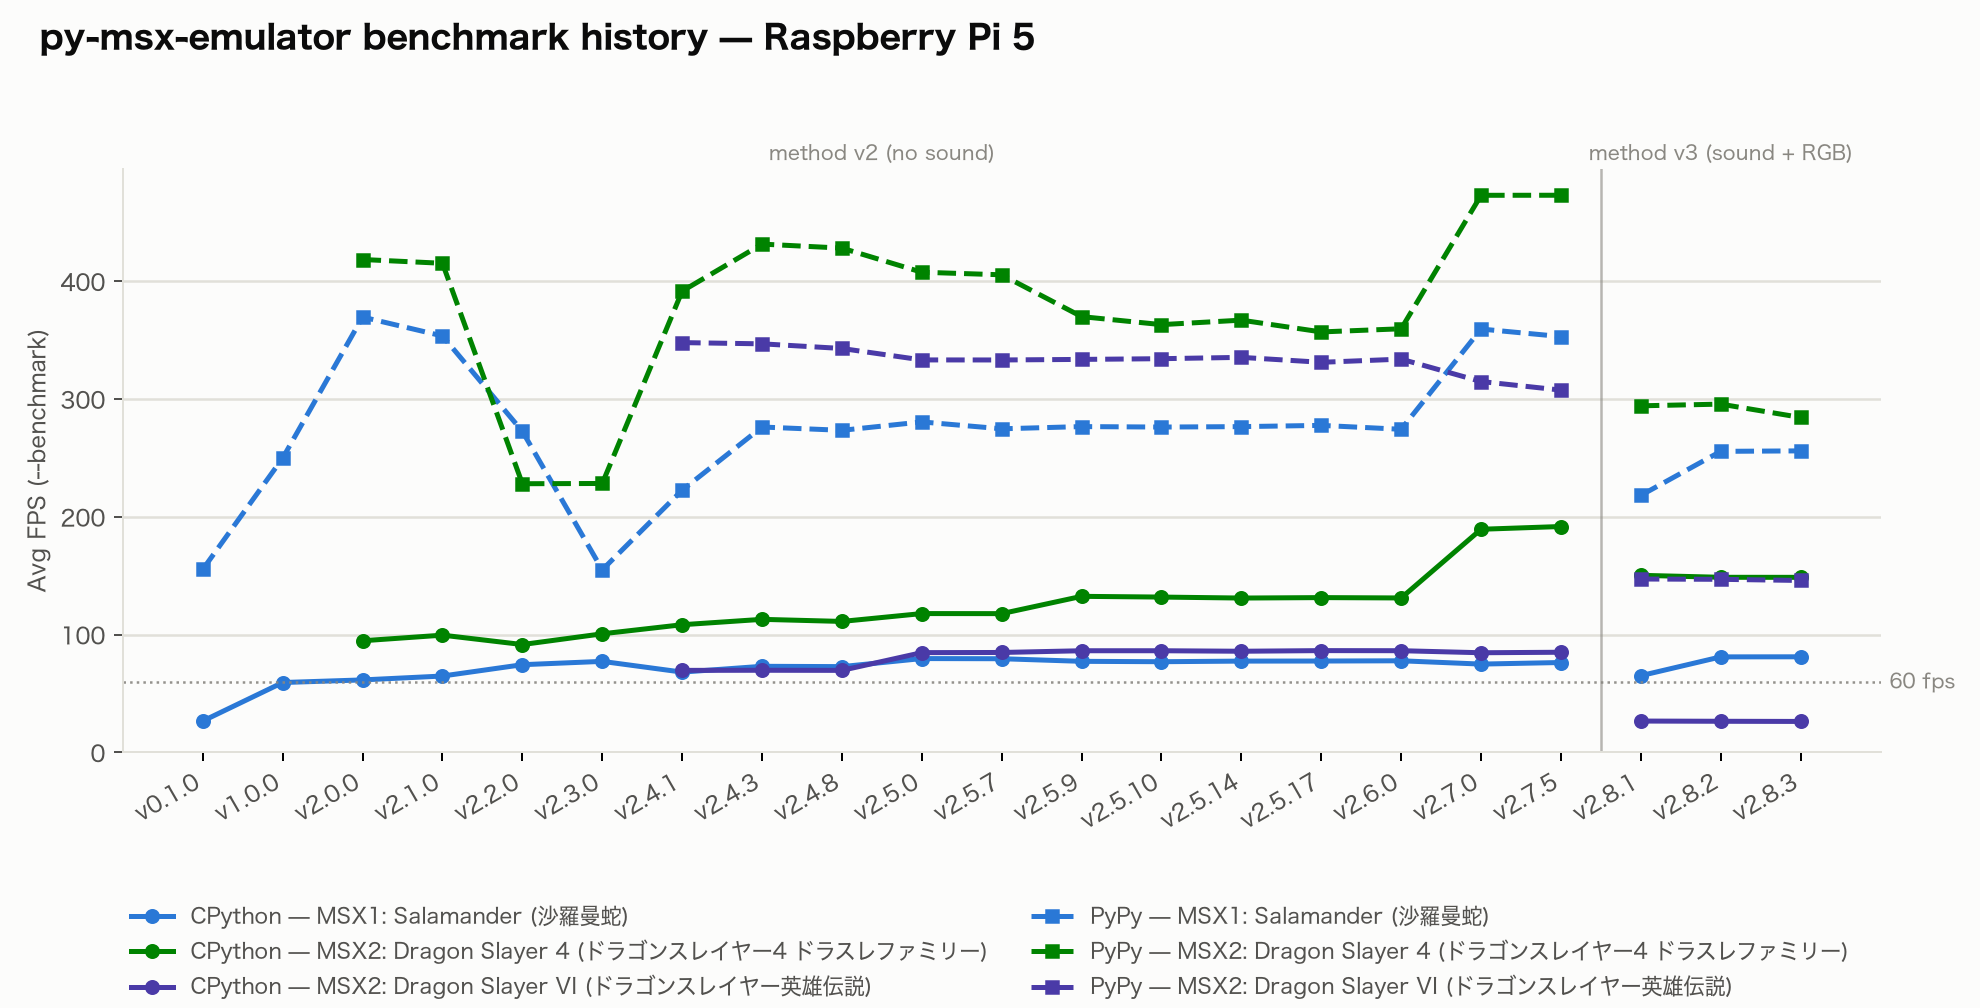
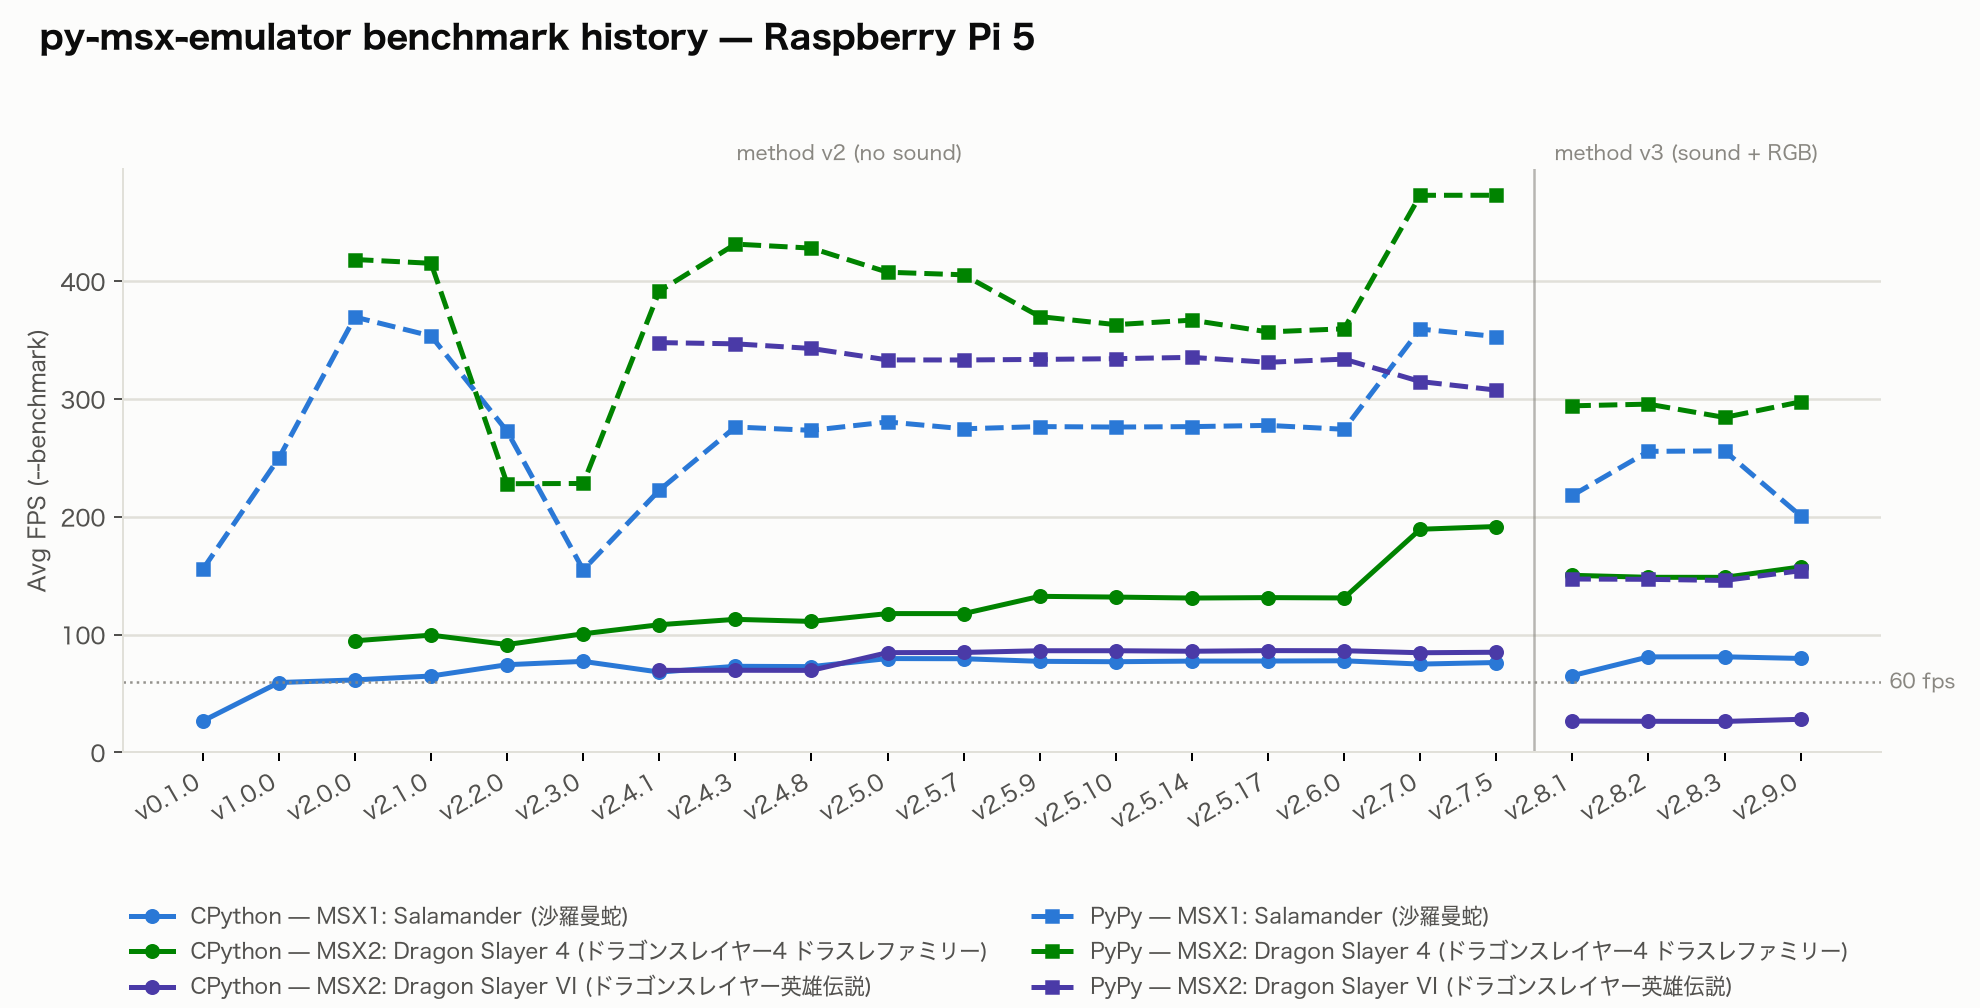
docs(readme): update the benchmarks for v2.9.0
New measurements on both hosts, the charts through v2.9.0, and the numbers in
the text after the table. PyPy runs the MSX1 title about 20% slower than in
v2.8.3. The cause is the shared clock record of add-core-clock, and the
project accepts that loss.

diff --git a/README.md b/README.md
@@ -655,25 +655,25 @@ the fastest and the slowest run.
 
 | Platform | Runtime | Game | Avg FPS (`--benchmark`) | vs. 60 fps target |
 | --- | --- | --- | --- | --- |
-| Apple MacBook Pro (M5 Pro) | CPython 3.12.13 | MSX1: Salamander (CPU+TMS9918+SCC) | 316.31 | ~5.3× |
-| Apple MacBook Pro (M5 Pro) | CPython 3.12.13 | MSX2: Dragon Slayer IV (CPU+V9938+PSG) | 554.05 | ~9.2× |
-| Apple MacBook Pro (M5 Pro) | CPython 3.12.13 | MSX2: Dragon Slayer VI - The Legend of Heroes (CPU+V9938+FDC+FMPAC) | 96.91 | ~1.6× |
-| Apple MacBook Pro (M5 Pro) | PyPy 7.3.19 (Python 3.10.16) | MSX1: Salamander (CPU+TMS9918+SCC) | 1236.10 | ~20.6× |
-| Apple MacBook Pro (M5 Pro) | PyPy 7.3.19 (Python 3.10.16) | MSX2: Dragon Slayer IV (CPU+V9938+PSG) | 1342.25 | ~22.4× |
-| Apple MacBook Pro (M5 Pro) | PyPy 7.3.19 (Python 3.10.16) | MSX2: Dragon Slayer VI - The Legend of Heroes (CPU+V9938+FDC+FMPAC) | 685.40 | ~11.4× |
-| Raspberry Pi 5 | CPython 3.12.13 | MSX1: Salamander (CPU+TMS9918+SCC) | 81.10 | ~1.4× |
-| Raspberry Pi 5 | CPython 3.12.13 | MSX2: Dragon Slayer IV (CPU+V9938+PSG) | 148.56 | ~2.5× |
-| Raspberry Pi 5 | CPython 3.12.13 | MSX2: Dragon Slayer VI - The Legend of Heroes (CPU+V9938+FDC+FMPAC) | 26.21 | ~0.44× |
-| Raspberry Pi 5 | PyPy 7.3.19 (Python 3.10.16) | MSX1: Salamander (CPU+TMS9918+SCC) | 255.94 | ~4.3× |
-| Raspberry Pi 5 | PyPy 7.3.19 (Python 3.10.16) | MSX2: Dragon Slayer IV (CPU+V9938+PSG) | 284.32 | ~4.7× |
-| Raspberry Pi 5 | PyPy 7.3.19 (Python 3.10.16) | MSX2: Dragon Slayer VI - The Legend of Heroes (CPU+V9938+FDC+FMPAC) | 145.91 | ~2.4× |
+| Apple MacBook Pro (M5 Pro) | CPython 3.12.13 | MSX1: Salamander (CPU+TMS9918+SCC) | 313.21 | ~5.2× |
+| Apple MacBook Pro (M5 Pro) | CPython 3.12.13 | MSX2: Dragon Slayer IV (CPU+V9938+PSG) | 588.45 | ~9.8× |
+| Apple MacBook Pro (M5 Pro) | CPython 3.12.13 | MSX2: Dragon Slayer VI - The Legend of Heroes (CPU+V9938+FDC+FMPAC) | 103.20 | ~1.7× |
+| Apple MacBook Pro (M5 Pro) | PyPy 7.3.19 (Python 3.10.16) | MSX1: Salamander (CPU+TMS9918+SCC) | 1010.60 | ~16.8× |
+| Apple MacBook Pro (M5 Pro) | PyPy 7.3.19 (Python 3.10.16) | MSX2: Dragon Slayer IV (CPU+V9938+PSG) | 1415.97 | ~23.6× |
+| Apple MacBook Pro (M5 Pro) | PyPy 7.3.19 (Python 3.10.16) | MSX2: Dragon Slayer VI - The Legend of Heroes (CPU+V9938+FDC+FMPAC) | 710.43 | ~11.8× |
+| Raspberry Pi 5 | CPython 3.12.13 | MSX1: Salamander (CPU+TMS9918+SCC) | 79.70 | ~1.3× |
+| Raspberry Pi 5 | CPython 3.12.13 | MSX2: Dragon Slayer IV (CPU+V9938+PSG) | 157.39 | ~2.6× |
+| Raspberry Pi 5 | CPython 3.12.13 | MSX2: Dragon Slayer VI - The Legend of Heroes (CPU+V9938+FDC+FMPAC) | 28.03 | ~0.47× |
+| Raspberry Pi 5 | PyPy 7.3.19 (Python 3.10.16) | MSX1: Salamander (CPU+TMS9918+SCC) | 200.75 | ~3.3× |
+| Raspberry Pi 5 | PyPy 7.3.19 (Python 3.10.16) | MSX2: Dragon Slayer IV (CPU+V9938+PSG) | 297.58 | ~5.0× |
+| Raspberry Pi 5 | PyPy 7.3.19 (Python 3.10.16) | MSX2: Dragon Slayer VI - The Legend of Heroes (CPU+V9938+FDC+FMPAC) | 154.20 | ~2.6× |
 
 Not every tested combination reaches the raw 60 fps target. The smallest
-margin is ~0.44×, below the target, on Raspberry Pi 5 with CPython and Dragon
+margin is ~0.47×, below the target, on Raspberry Pi 5 with CPython and Dragon
 Slayer VI. The FM-PAC (YM2413) synthesis is the heaviest per-frame load of the
-target titles. PyPy increases the same case to ~2.4×. The other Raspberry Pi 5
-and CPython combinations reach the target: Salamander at ~1.4× and Dragon
-Slayer IV at ~2.5×.
+target titles. PyPy increases the same case to ~2.6×. The other Raspberry Pi 5
+and CPython combinations reach the target: Salamander at ~1.3× and Dragon
+Slayer IV at ~2.6×.
 
 A run goes below 60 fps in these cases: CPython on a Raspberry Pi 5 with an
 FM-PAC title, hardware slower than a Raspberry Pi 5, or a heavier title. The
@@ -689,7 +689,7 @@ because of OS scheduling and thermal throttling. Treat them as approximate.
 
 ### Benchmark history
 
-Avg FPS (`--benchmark`) from v0.1.0 through v2.8.3, one chart per platform.
+Avg FPS (`--benchmark`) from v0.1.0 through v2.9.0, one chart per platform.
 Solid lines are CPython and dashed lines are PyPy. Up to v2.7.5 the author
 measured with the same cold-boot method as above, but without sound synthesis
 (the method up to v2.7.8). From v2.8.1 the author measured with the method
